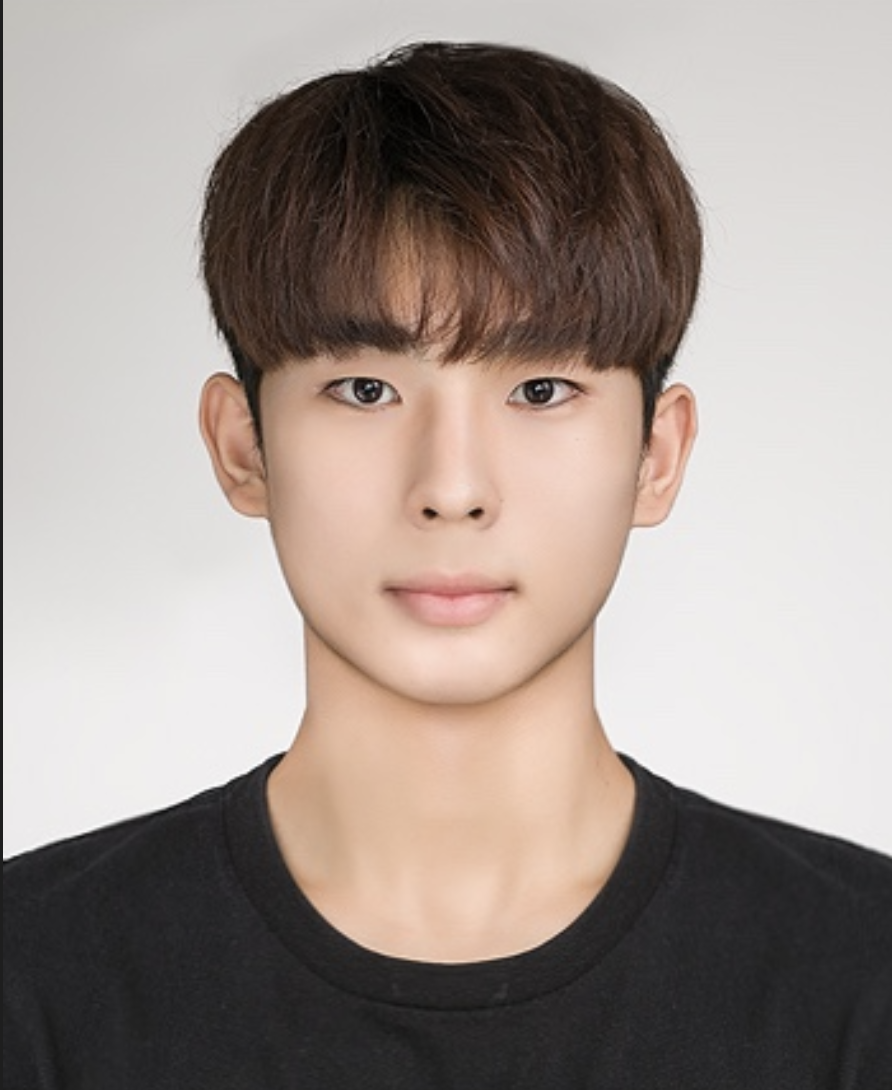
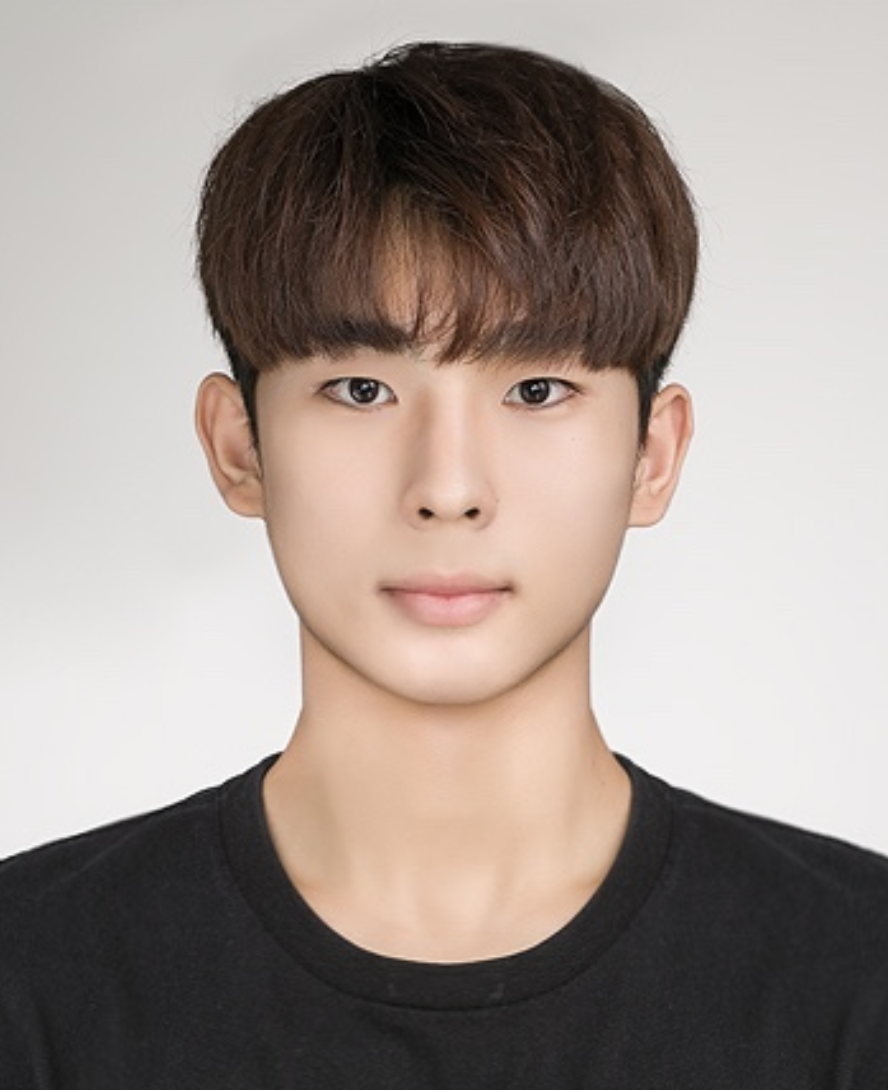
round profile image, narrow container, add optional author info tooltip

diff --git a/index.html b/index.html
@@ -50,7 +50,15 @@ title: Home
         {% endif %}
         <div class="paper-content">
         <p class="title"><b>{{ paper.title }}</b></p>
-        <div class="authors">{{ paper.authors | markdownify }}</div>
+        <div class="authors">
+          {{ paper.authors | markdownify }}
+          {% if paper.authors_note %}
+          <span class="authors-info" tabindex="0" aria-label="{{ paper.authors_note }}">
+            <i class="fa-solid fa-circle-info"></i>
+            <span class="authors-tooltip">{{ paper.authors_note }}</span>
+          </span>
+          {% endif %}
+        </div>
         <p><i>{{ paper.venue }}</i></p>
         <div class="paper-buttons">
           {% if paper.paper_pdf %}
@@ -101,7 +109,15 @@ title: Home
         {% endif %}
         <div class="paper-content">
         <p class="title"><b>{{ paper.title }}</b></p>
-        <div class="authors">{{ paper.authors | markdownify }}</div>
+        <div class="authors">
+          {{ paper.authors | markdownify }}
+          {% if paper.authors_note %}
+          <span class="authors-info" tabindex="0" aria-label="{{ paper.authors_note }}">
+            <i class="fa-solid fa-circle-info"></i>
+            <span class="authors-tooltip">{{ paper.authors_note }}</span>
+          </span>
+          {% endif %}
+        </div>
         <p><i>{{ paper.venue }}</i></p>
         <div class="paper-buttons">
           {% if paper.paper_pdf %}

diff --git a/libs/custom/my_css.css b/libs/custom/my_css.css
@@ -2,12 +2,15 @@ h4 {
   letter-spacing: 0.1rem;
 }
 .container {
-  max-width: 900px;
+  max-width: 830px;
 }
 .header {
   margin-top: 60px;
   margin-bottom: 60px;
   text-align: left;
+}
+.header img {
+  border-radius: 20px;
 }
 .main-description h1 {
   margin-bottom: 0px;
@@ -69,6 +72,46 @@ h4 {
 }
 .paper .authors u {
   color: #000;
+}
+.paper .authors-info {
+  position: relative;
+  display: inline-block;
+  margin-left: 4px;
+  color: #aaa;
+  cursor: help;
+  font-weight: normal;
+  vertical-align: baseline;
+}
+.paper .authors-info:hover {
+  color: #777;
+}
+.paper .authors-info .authors-tooltip {
+  visibility: hidden;
+  opacity: 0;
+  position: absolute;
+  bottom: calc(100% + 8px);
+  left: 50%;
+  transform: translateX(-50%);
+  min-width: 240px;
+  max-width: 320px;
+  padding: 10px 14px;
+  background: #fff;
+  color: #222;
+  font-size: 1.3rem;
+  font-weight: normal;
+  line-height: 1.4;
+  border: 1px solid #ddd;
+  border-radius: 6px;
+  box-shadow: 0 4px 16px rgba(0, 0, 0, 0.12);
+  white-space: normal;
+  z-index: 10;
+  transition: opacity 0.15s ease;
+  pointer-events: none;
+}
+.paper .authors-info:hover .authors-tooltip,
+.paper .authors-info:focus .authors-tooltip {
+  visibility: visible;
+  opacity: 1;
 }
 .paper .button {
   display: inline-block;
